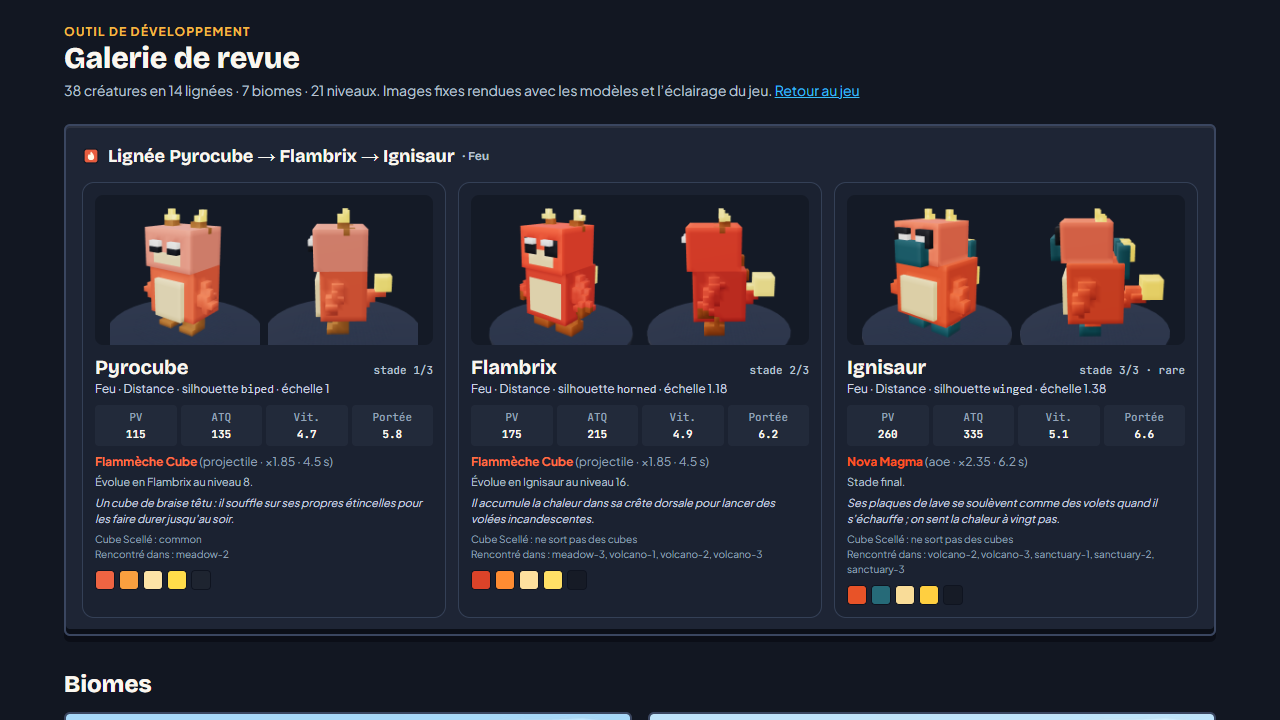
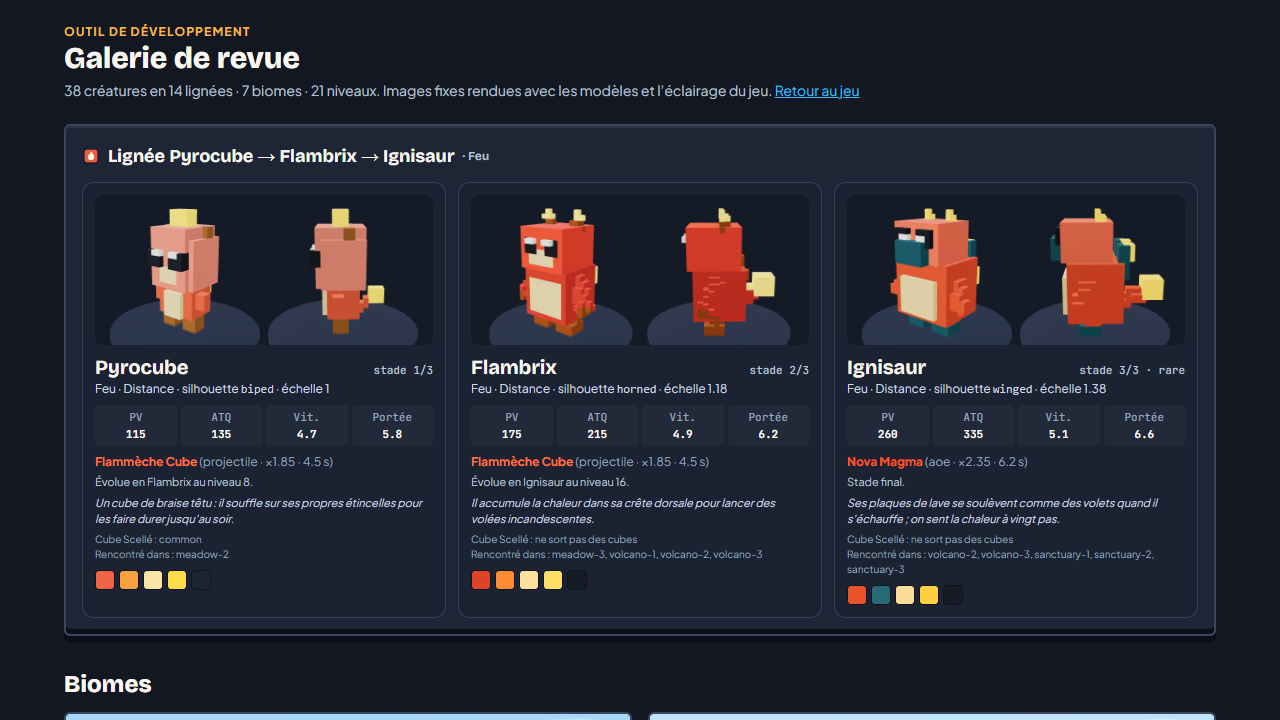
art2.2: formes de base mignonnes (Pyrocube : braise-cube sur la tete ; Ampoulin : ampoule sur sa douille ; Cailloc : cristal d'ambre et fissure), tete 45 a 50 %, yeux de 3 blocs avec reflet, volumes distincts ; tests : proportions et 9 silhouettes differentes a 64 pixels

diff --git a/src/game/models/sculptDefs.ts b/src/game/models/sculptDefs.ts
@@ -20,22 +20,29 @@ const LEGS = { legs: ['legL', 'legR'], eyes: ['eyeL', 'eyeR'] };
 
 // ---------------------------------------------------------------- lignée Pyrocube (Feu)
 
+/**
+ * ART2 (section 2) : proportions mignonnes (tête 45 à 50 % de la hauteur), grands yeux à reflet, volumes
+ * distincts (tête, corps, pattes, détail). Détail signature de Pyrocube : la BRAISE-CUBE lumineuse sur la tête.
+ */
 const pyrocube: SculptDef = {
   ...LEGS,
-  extras: [{ group: 'tail', pivot: [0, 0.38, -0.3] }],
+  extras: [{ group: 'tail', pivot: [0, 0.3, -0.24] }],
   shapes: [
-    B([0, 0.52, 0], [0.34, 0.32, 0.31], 'primary'),
-    B([0, 0.46, 0.2], [0.24, 0.22, 0.14], 'belly'),
-    C([0.34, 0.66, 0.06], [0.46, 0.46, 0.14], 0.09, 'primary', 'body', true),
-    B([0, 1.1, 0.04], [0.36, 0.25, 0.32], 'primary', 'head'),
-    B([0, 1.0, 0.33], [0.18, 0.1, 0.06], 'belly', 'head'),
-    K([0.22, 1.3, -0.02], [0.11, 0.26, 0.03], 'secondary', 'crest', true),
-    K([0.23, 1.46, -0.02], [0.07, 0.14, 0.02], 'accent', 'crest', true),
-    ...eyes(0.16, 1.14, 0.33),
-    C([0.17, 0.3, 0], [0.18, 0.1, 0.03], 0.11, 'secondary', 'leg*', true),
-    B([0.18, 0.05, 0.07], [0.11, 0.05, 0.13], 'secondary', 'leg*', true),
-    C([0, 0.38, -0.3], [0, 0.5, -0.5], 0.08, 'primary', 'tail'),
-    B([0, 0.58, -0.56], [0.1, 0.1, 0.1], 'accent', 'tail'),
+    B([0, 0.42, 0], [0.27, 0.24, 0.24], 'primary'),
+    B([0, 0.4, 0.21], [0.17, 0.16, 0.05], 'belly'),
+    B([0.33, 0.46, 0.06], [0.07, 0.12, 0.08], 'primary', 'body', true),
+    B([0, 1.02, 0.02], [0.36, 0.38, 0.32], 'primary', 'head'),
+    // coins de la tête adoucis
+    { kind: 'box', at: [0.36,0.99,0.34], size: [0.08,0.4,0.06], color: 'primary', group: 'head', subtract: true, mirror: true },
+    { kind: 'box', at: [0.36,1.34,0.02], size: [0.08,0.06,0.4], color: 'primary', group: 'head', subtract: true, mirror: true },
+    B([0, 0.82, 0.34], [0.17, 0.08, 0.04], 'belly', 'head'),
+    ...eyes(0.16, 1.04, 0.33, 0.095, 0.13),
+    // braise-cube (signature) et deux petites oreilles
+    B([0, 1.54, 0.02], [0.12, 0.12, 0.12], 'accent', 'crest'),
+    B([0.26, 1.38, -0.04], [0.07, 0.07, 0.07], 'secondary', 'crest', true),
+    B([0.16, 0.09, 0.03], [0.1, 0.09, 0.12], 'secondary', 'leg*', true),
+    C([0, 0.3, -0.24], [0, 0.4, -0.4], 0.07, 'primary', 'tail'),
+    B([0, 0.46, -0.46], [0.08, 0.08, 0.08], 'accent', 'tail'),
   ],
 };
 
@@ -94,22 +101,24 @@ const ignisaur: SculptDef = {
 
 // ---------------------------------------------------------------- lignée Ampoulin (Foudre)
 
+/** ART2 : Ampoulin, détail signature : l'AMPOULE lumineuse au sommet, sur sa douille de cuivre. */
 const ampoulin: SculptDef = {
   ...LEGS,
-  extras: [{ group: 'tail', pivot: [0, 0.36, -0.34] }],
+  extras: [{ group: 'tail', pivot: [0, 0.3, -0.26] }],
   shapes: [
-    B([0, 0.5, 0], [0.33, 0.32, 0.33], 'primary'),
-    B([0, 0.46, 0], [0.35, 0.07, 0.35], 'secondary'),
-    B([0, 0.62, 0.34], [0.18, 0.04, 0.03], 'accent'),
-    B([0, 0.9, 0], [0.335, 0.22, 0.335], 'primary', 'head'),
-    B([0, 1.09, 0], [0.15, 0.06, 0.15], 'secondary', 'crest'),
-    B([0, 1.2, 0], [0.08, 0.06, 0.08], 'accent', 'crest'),
-    ...eyes(0.14, 0.94, 0.33, 0.1, 0.075),
-    B([0.35, 0.62, 0], [0.06, 0.16, 0.22], 'secondary', 'body', true),
-    C([0.4, 0.52, 0.1], [0.46, 0.36, 0.14], 0.08, 'primary', 'body', true),
+    B([0, 0.4, 0], [0.27, 0.22, 0.25], 'primary'),
+    B([0, 0.38, 0], [0.285, 0.06, 0.265], 'secondary'),
+    B([0, 0.5, 0.26], [0.14, 0.04, 0.03], 'accent'),
+    B([0.32, 0.44, 0.04], [0.07, 0.12, 0.08], 'secondary', 'body', true),
+    B([0, 0.98, 0], [0.35, 0.39, 0.32], 'primary', 'head'),
+    { kind: 'box', at: [0.35,0.95,0.32], size: [0.07,0.4,0.06], color: 'primary', group: 'head', subtract: true, mirror: true },
+    ...eyes(0.15, 1.02, 0.32, 0.1, 0.12),
+    // douille et ampoule (signature)
+    B([0, 1.42, 0], [0.12, 0.06, 0.12], 'secondary', 'crest'),
+    B([0, 1.58, 0], [0.13, 0.12, 0.13], 'accent', 'crest'),
     B([0.16, 0.08, 0.03], [0.11, 0.08, 0.13], 'secondary', 'leg*', true),
-    C([0, 0.36, -0.34], [0, 0.3, -0.6], 0.07, 'secondary', 'tail'),
-    B([0, 0.3, -0.68], [0.1, 0.09, 0.08], 'accent', 'tail'),
+    C([0, 0.3, -0.26], [0, 0.26, -0.48], 0.07, 'secondary', 'tail'),
+    B([0, 0.26, -0.56], [0.09, 0.08, 0.07], 'accent', 'tail'),
   ],
 };
 
@@ -163,20 +172,25 @@ const voltacier: SculptDef = {
 
 // ---------------------------------------------------------------- lignée Cailloc (Roche)
 
+/** ART2 : Cailloc, détail signature : le CRISTAL d'ambre planté dans le crâne, et une fissure sombre. */
 const cailloc: SculptDef = {
   ...LEGS,
   shapes: [
-    E([0, 0.5, 0], [0.46, 0.38, 0.42], 'primary'),
-    E([0, 0.44, 0.24], [0.28, 0.24, 0.18], 'belly'),
-    // bosses de pierre sur le dos
-    E([0.18, 0.78, -0.18], [0.16, 0.14, 0.14], 'secondary', 'body', true),
-    E([0, 0.68, -0.34], [0.18, 0.16, 0.12], 'secondary'),
-    E([0, 1.02, 0.08], [0.38, 0.25, 0.34], 'primary', 'head'),
-    E([0.2, 1.22, -0.04], [0.12, 0.1, 0.1], 'secondary', 'crest', true),
-    K([0, 1.24, 0.06], [0.08, 0.2, 0.02], 'accent', 'crest'),
-    ...eyes(0.15, 1.04, 0.34),
-    C([0.38, 0.56, 0.08], [0.5, 0.36, 0.14], 0.11, 'primary', 'body', true),
-    B([0.2, 0.1, 0.04], [0.14, 0.1, 0.15], 'secondary', 'leg*', true),
+    B([0, 0.42, 0], [0.3, 0.24, 0.27], 'primary'),
+    B([0, 0.4, 0.23], [0.18, 0.15, 0.05], 'belly'),
+    // bosses de pierre sur les épaules
+    B([0.3, 0.58, -0.06], [0.1, 0.09, 0.12], 'secondary', 'body', true),
+    B([0.36, 0.42, 0.06], [0.08, 0.13, 0.09], 'primary', 'body', true),
+    B([0, 0.99, 0.03], [0.37, 0.35, 0.32], 'primary', 'head'),
+    { kind: 'box', at: [0.37,0.99,0.35], size: [0.08,0.4,0.06], color: 'primary', group: 'head', subtract: true, mirror: true },
+    // fissure sombre sur le front
+    B([-0.18, 1.24, 0.34], [0.04, 0.09, 0.03], 'secondary', 'head'),
+    B([-0.12, 1.16, 0.34], [0.04, 0.05, 0.03], 'secondary', 'head'),
+    ...eyes(0.16, 1.02, 0.34, 0.095, 0.12),
+    // cristal d'ambre (signature)
+    B([0.1, 1.46, 0], [0.08, 0.13, 0.08], 'accent', 'crest'),
+    B([-0.04, 1.42, 0.06], [0.06, 0.09, 0.06], 'accent', 'crest'),
+    B([0.18, 0.09, 0.04], [0.12, 0.09, 0.14], 'secondary', 'leg*', true),
   ],
 };
 

diff --git a/src/game/art.test.ts b/src/game/art.test.ts
@@ -12,7 +12,7 @@ const RES_LOW = 9;
 const span = (list: Voxel[], k: 'x' | 'y' | 'z') => Math.max(...list.map((v) => v[k])) - Math.min(...list.map((v) => v[k])) + 1;
 
 for (const [id, def] of Object.entries(SCULPT_DEFS)) {
-  test(`Art (${id}) : parties épaisses, tête 30-40 %, yeux 2×2 avec reflet, 3 à 5 couleurs, budget de blocs`, () => {
+  test(`Art (${id}) : parties épaisses, tête 45-50 % (base) ou 30-40 %, yeux 2×2 avec reflet, 3 à 5 couleurs, budget de blocs`, () => {
     assert.ok(SPECIES[id], id);
     const v = voxelize(def, RES_HIGH);
     const groups = [...new Set(v.map((x) => x.group))];
@@ -24,7 +24,10 @@ for (const [id, def] of Object.entries(SCULPT_DEFS)) {
     // tête (yeux compris, sans les ornements) entre 30 et 40 % de la hauteur
     const head = v.filter((x) => x.group === 'head' || x.group.startsWith('eye'));
     const ratio = span(head, 'y') / span(v, 'y');
-    assert.ok(ratio >= 0.3 && ratio <= 0.4, `${id} : tête ${Math.round(ratio * 100)} %`);
+    // ART2 : formes de base aux proportions mignonnes (45 à 50 %), formes évoluées 30 à 40 %
+    const base = !Object.values(SPECIES).some((sp) => sp.evolvesTo === id);
+    const [lo, hi] = base ? [0.45, 0.5] : [0.3, 0.4];
+    assert.ok(ratio >= lo && ratio <= hi, `${id} : tête ${Math.round(ratio * 100)} %`);
     // deux yeux d'au moins 2 × 2 blocs, chacun avec un reflet blanc
     for (const eye of ['eyeL', 'eyeR']) {
       const list = v.filter((x) => x.group === eye);
@@ -63,4 +66,32 @@ test('ART2 (couleurs) : tons nets, tête distincte, détails sombres, bruit de s
       assert.ok(contrast(c, t.primary) >= 0.15, `${id} : ${part} ${Math.round(contrast(c, t.primary) * 100)} %`);
     }
   }
+});
+
+/** Silhouette de face à 64 pixels de haut (ombre noire) : grille d'occupation x/y, centrée. */
+function silhouette64(id: string): Set<string> {
+  const v = voxelize(SCULPT_DEFS[id], RES_HIGH);
+  const minX = Math.min(...v.map((p) => p.x));
+  const maxX = Math.max(...v.map((p) => p.x));
+  const minY = Math.min(...v.map((p) => p.y));
+  const h = Math.max(...v.map((p) => p.y)) - minY + 1;
+  const k = 64 / h;
+  const cx = (minX + maxX + 1) / 2;
+  const out = new Set<string>();
+  for (const p of v) {
+    for (let a = 0; a < Math.ceil(k); a++)
+      for (let b = 0; b < Math.ceil(k); b++) out.add(`${Math.floor((p.x - cx) * k + a)},${Math.floor((p.y - minY) * k + b)}`);
+  }
+  return out;
+}
+
+test('ART2 : les 9 silhouettes noires sont toutes différentes à 64 pixels', () => {
+  const ids = Object.keys(SCULPT_DEFS);
+  const sil = ids.map((id) => silhouette64(id));
+  for (let i = 0; i < ids.length; i++)
+    for (let j = i + 1; j < ids.length; j++) {
+      const inter = [...sil[i]].filter((p) => sil[j].has(p)).length;
+      const iou = inter / (sil[i].size + sil[j].size - inter);
+      assert.ok(iou < 0.9, `${ids[i]} / ${ids[j]} : ${Math.round(iou * 100)} % de recouvrement`);
+    }
 });
